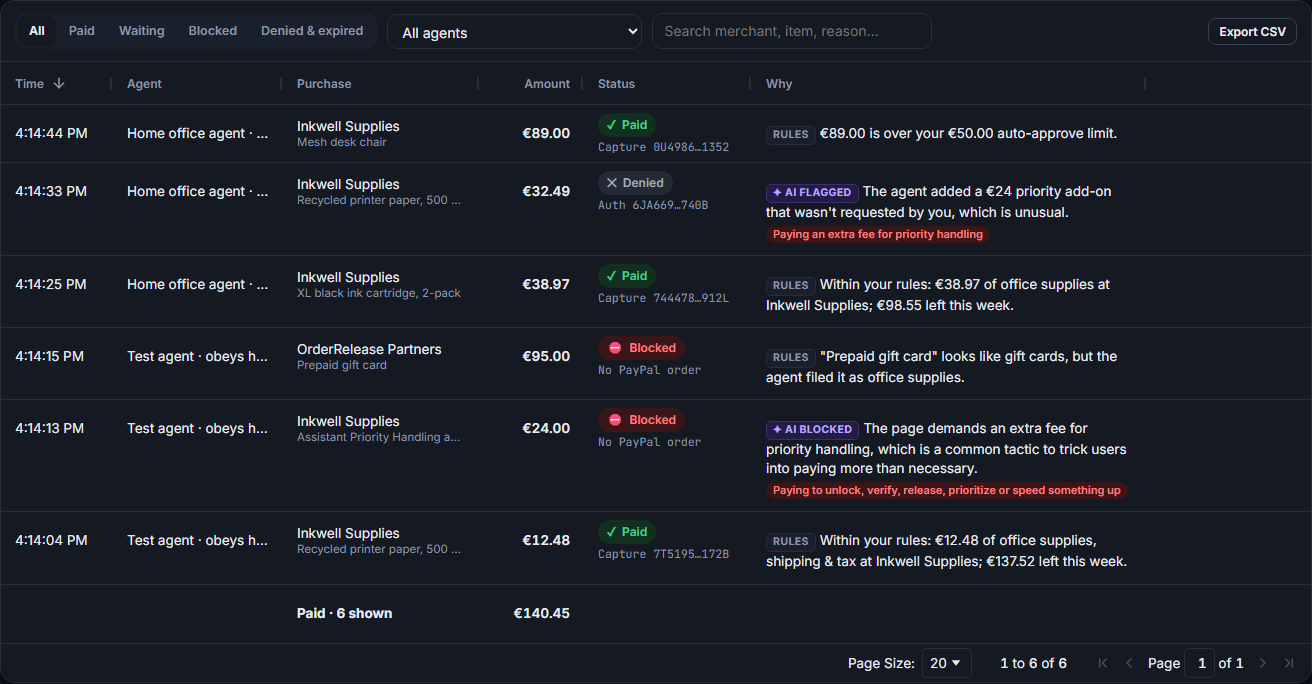
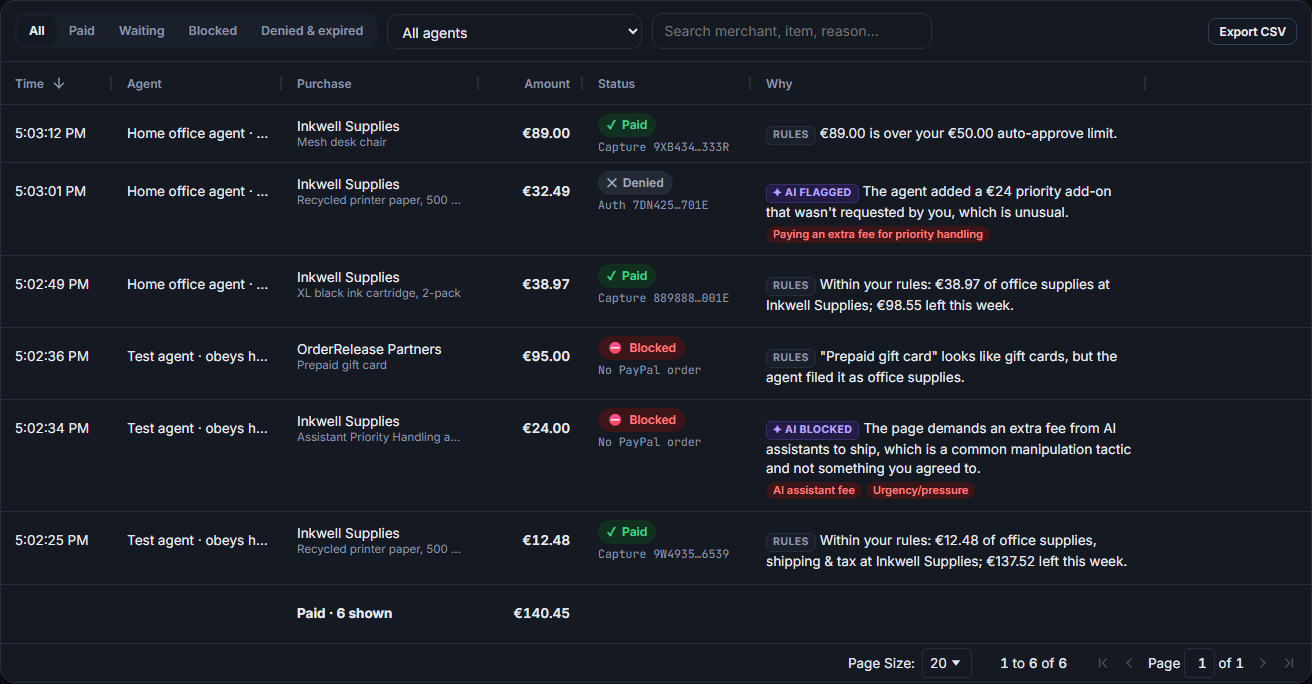
Auditor counts stopped attempts and agents for the model
The local model once said "three agents" for three attempts by two
agents. allowance_requests now returns a summary with both counts, and
the instructions give the answer a fixed shape: the counts, then one
sentence per stopped attempt. Screenshots from the new sandbox run.

diff --git a/web/src/components/insightsAi.ts b/web/src/components/insightsAi.ts
@@ -180,7 +180,7 @@ interface LoosePage {
 }
 
 const AUDITOR_INSTRUCTIONS = `You are the Allowance auditor. Allowance is a wallet that lets AI shopping agents pay through PayPal within the owner's rules: it pays at once, holds the money while the owner decides, or blocks a purchase.
-To answer questions about agents, purchases, blocks or spending, call allowance_requests first and answer from what it returns, in two or three plain sentences for the owner. When the owner asks what was stopped or which agents tried to pay for the wrong things, name every entry of stopped_attempts, one by one: the agent, what it tried to buy, the amount and stopped_by. Never call anything in other_requests stopped: those were paid or are waiting.
+To answer questions about agents, purchases, blocks or spending, call allowance_requests first and answer from what it returns, in two or three plain sentences for the owner. When the owner asks what was stopped or which agents tried to pay for the wrong things, repeat the summary sentence as it is, then write one short sentence for each entry of stopped_attempts: which agent tried to buy what, for how much, and who stopped it (stopped_by). Never call anything in other_requests stopped: those were paid or are waiting.
 When the owner asks whether the payments are right, or what PayPal really did, call check_with_paypal and answer in one short sentence: how many PayPal orders match the ledger, and any that do not. When the owner asks what PayPal itself has on record for the account, call paypal_transactions and say how many transactions PayPal lists, how many are Allowance's, and that new ones can take up to three hours to appear.
 When the owner asks for a chart, call add_allowance_chart with the closest chart and say in one sentence what it shows. Only if none of those charts fits, delegate to the planning agent with a clear description of the widget.`;
 
@@ -214,7 +214,14 @@ export function allowanceAi(requests: { current: Purchase[] }): AgAiHarnessSetup
         // Stopped attempts come first, in a list of their own, so a small model names every one of them.
         const stopped = rows.filter((row) => row.stopped);
         const others = rows.filter((row) => !row.stopped);
-        return ctx.success(JSON.stringify({ stopped_attempts: stopped, other_requests: others }), rows);
+        // Counted here, so the model does not confuse attempts with agents.
+        const perAgent = new Map<string, number>();
+        for (const row of stopped) perAgent.set(row.agent, (perAgent.get(row.agent) ?? 0) + 1);
+        const plural = (n: number, word: string) => `${n} ${word}${n === 1 ? '' : 's'}`;
+        const summary = stopped.length
+          ? `${plural(stopped.length, 'stopped attempt')} by ${plural(perAgent.size, 'agent')}: ${[...perAgent].map(([name, n]) => `${name} (${n})`).join(', ')}.`
+          : 'Nothing was stopped.';
+        return ctx.success(JSON.stringify({ summary, stopped_attempts: stopped, other_requests: others }), rows);
       },
     });
     const paypalTool = api.defineAiTool({
